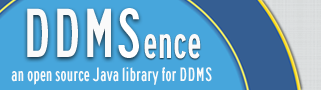
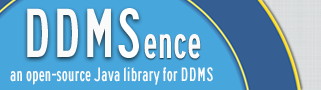
Corrected spelling of "open source" (noun) vs. "open-source" (adjective)
git-svn-id: http://ddmsence.googlecode.com/svn/trunk@800 1f99f4d6-3056-11df-954b-21e382534593

Changed region(s): [[0.0312, 0.7333, 0.6854, 0.9333]]

diff --git a/conf/javadoc-overview.html b/conf/javadoc-overview.html
@@ -22,7 +22,7 @@
 <body>
   
   	<p>
-	DDMSence (pronounced "<i>dee-dee-em-Essence</i>") is an open source Java API which supports the 
+	DDMSence (pronounced "<i>dee-dee-em-Essence</i>") is an open-source Java API which supports the 
 	<a href="http://metadata.ces.mil/mdr/irs/DDMS/" target="_new">DoD Discovery Metadata Specification (DDMS)</a>. 
 	It transforms XML DDMS Resources (metacards) into a Java object model (using XOM and Xerces), allowing them to be 
 	manipulated or traversed within the context of a Java environment. The library is published under the 
